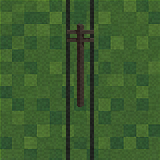
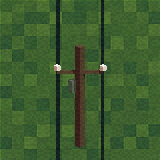
feat(studio): hydro lines redesigned from first principles
Rather than reproducing the old powerline sprites, the hydro tiles are now
inspired-by-but-better, using the pipeline's strengths:

- Crafted wood pole (warm wood palette, kin to doors/rail ties) with the
  studio sun's two-tone shading and ink outline — replacing the original's
  near-black slab. Wide enough (0.17 world ~ 2 art cells) that the wood
  shows between the outlines.
- Single long crossarm spanning the wire gauge, porcelain insulator dots
  on the tips, and a dull-metal transformer can on the pole.
- Wires anchor to the arm: NS keeps plan-view straight wires at the
  arm-tip gauge (±0.56); EW hangs both wires at arm height with catenary
  sag kinking at each pole (the reference's own elevation cheat, with
  physically coherent wire spacing).
- The pole billboard composites 12 art cells low (`overlayOffsetY`), which
  seats its extent at ~22-75% of the tile and lands the crossarm exactly
  at the wire-anchor height for both orientations; a cell-aligned ground
  shadow is stamped under the base, consistent with the studio sun.

`AUTHORING.md` documents the billboard-prop pattern; `power-demo.png`
compares both orientations against the original sprites.

Changed region(s): [[0.3125, 0.0, 0.6875, 1.0]]

diff --git a/studio/scenes/power.py b/studio/scenes/power.py
@@ -1,10 +1,18 @@
-# Scene: powerline ground tiles (wires only). The pole is a separate scene
+# Scene: hydro line ground tiles (wires only). The pole is a separate scene
 # (pole.py) rendered through the DIMETRIC camera and composited onto these
 # tiles by the stylizer — the same top-down-ground / elevation-pole cheat the
-# existing (liked) hand-made powerline sprites use.
+# existing (liked) hand-made hydro sprites use.
+#
+# Measured from those sprites, the two orientations use different cheats:
+# - vertical (ns): plan view — two dead-straight wires at ±0.53 world.
+# - horizontal (ew): elevation view — wires hang above centre (anchored at
+#   the pole's crossarm height) and sag toward the tile edges, kinking at
+#   each pole exactly like the reference.
 #
 # (c) Copyright 2026 Liminal HQ, Scott Morris
 # SPDX-License-Identifier: MIT
+
+import math
 
 from studiolib import box
 
@@ -14,14 +22,28 @@ ROTATION_DEG = 0
 VARIANTS = {'ns': None, 'ew': None}
 VARIANT = 'ns'
 
-WIRE_OFFSET = 0.30
+WIRE_OFFSET = 0.56   # the pole's crossarm-tip gauge — wires attach there
+WIRE_W = 0.09
+SAG = 0.22           # catenary dip at the tile edge (elevation-view wires)
+EW_ANCHORS = (0.79, 0.50)  # wire heights at the pole: crossarm height, with
+                           # the near-side wire drawn slightly lower for depth
 
 
 def build(mats):
-    ns = VARIANT == 'ns'
-    # Two parallel wires, low over the grass (kept near the ground so their
-    # cast shadows stay tight instead of drawing a doubled line).
-    for side in (1, -1):
-        loc = (WIRE_OFFSET * side, 0, 0.06) if ns else (0, WIRE_OFFSET * side, 0.06)
-        scale = (0.09, 4.1, 0.04) if ns else (4.1, 0.09, 0.04)
-        box(mats, 'wire', loc, scale)
+    if VARIANT == 'ns':
+        for side in (1, -1):
+            box(mats, 'wire', (WIRE_OFFSET * side, 0, 0.06), (WIRE_W, 4.1, 0.04))
+    else:
+        # Sagging elevation-view wires: segmented along x, dipping toward the
+        # edges; adjacent tiles continue the curve, kinking at each pole.
+        segments = 16
+        for anchor in EW_ANCHORS:
+            for i in range(segments):
+                x0 = -2.05 + 4.1 * i / segments
+                x1 = -2.05 + 4.1 * (i + 1) / segments
+                y0 = anchor - SAG * (x0 / 2) ** 2
+                y1 = anchor - SAG * (x1 / 2) ** 2
+                cx, cy = (x0 + x1) / 2, (y0 + y1) / 2
+                length = math.hypot(x1 - x0, y1 - y0)
+                box(mats, 'wire', (cx, cy, 0.06), (length + 0.02, WIRE_W, 0.04),
+                    (0, 0, math.atan2(y1 - y0, x1 - x0)))

diff --git a/studio/scenes/pole.py b/studio/scenes/pole.py
@@ -1,6 +1,12 @@
-# Scene: utility pole billboard prop — rendered through the standard DIMETRIC
-# camera (so it stands up, like the pole in the existing hand-made powerline
-# sprites) and composited onto the top-down power wire tiles by the stylizer.
+# Scene: hydro pole billboard prop — rendered through the standard DIMETRIC
+# camera (so it stands up, like the pole in the existing hand-made hydro
+# sprites) and composited onto the top-down wire tiles by the stylizer.
+#
+# Measured against both reference sprites: pole spans ~22-78% of the tile
+# height with a single long crossarm whose bar sits ~31 px above tile centre
+# once the billboard is composited 12 art cells (40 px) low — the same
+# alignment puts the crossarm tips exactly on the vertical tile's wires
+# (±0.53 world) and at the horizontal tile's upper wire height.
 #
 # (c) Copyright 2026 Liminal HQ, Scott Morris
 # SPDX-License-Identifier: MIT
@@ -14,12 +20,17 @@ FOCUS_Z = 0.7
 
 
 def build(mats):
-    # The pole itself — taller than real-world proportion, matching the
-    # exaggerated elevation-view pole of the existing sprites. The overlay is
-    # composited at 1:1 world scale with the wire tile, so the crossarm tips
-    # (±0.30 along the screen-horizontal) land exactly on the wire lines.
-    box(mats, 'tie', (0, 0, 1.1), (0.12, 0.12, 2.2))
-    # Crossarms, oriented perpendicular to the camera azimuth (45°) so they
-    # read as horizontal bars on screen.
-    for z in (2.0, 1.78):
-        box(mats, 'tie', (0, 0, z), (0.68, 0.09, 0.07), (0, 0, math.radians(135)))
+    # The pole: tall (2.7 world -> ~58% of tile height on screen), wide
+    # enough (0.17 ~ 2 art cells) that the wood material shows between its
+    # ink outlines. Wood role — shaded two-tone by the studio sun.
+    box(mats, 'tie', (0, 0, 1.35), (0.17, 0.17, 2.7))
+    # Single long crossarm spanning the wire gauge (tips at ±0.575 screen),
+    # oriented perpendicular to the camera azimuth so it reads horizontal.
+    box(mats, 'tie', (0, 0, 2.0), (1.15, 0.09, 0.08), (0, 0, math.radians(135)))
+    # Porcelain insulators on the arm tips (trim role), where wires attach.
+    for side in (1, -1):
+        tip = 0.575 * side
+        box(mats, 'trim', (tip * -0.707, tip * 0.707, 2.11), (0.12, 0.12, 0.13))
+    # Transformer can hanging right of the pole below the arm (grey).
+    stub = 0.20
+    box(mats, 'step', (stub * 0.707, -stub * 0.707, 1.62), (0.14, 0.14, 0.32))

diff --git a/studio/AUTHORING.md b/studio/AUTHORING.md
@@ -97,6 +97,7 @@ Ground tiles are a second asset class: set `TOP_DOWN = True` in the scene and th
 - Relief still matters: model trackbeds/kerbs as *raised* boxes (0.05–0.2 units) so the fixed sun gives them form; a purely flat plane renders styleless.
 - Connectivity variant sets (the road/rail 15: `ns`, `ew`, 4×`corner-*`, 4×`t-*`, `cross`, 4×`end-*`) come from ONE parametric scene exposing a `VARIANTS` dict and a `VARIANT` module global; the driver renders each as `<scene>-<variant>`. Always build variants as rotated *geometry*, never rotate the finished sprite — sprite rotation would rotate the sun with it and break lighting consistency.
 - Render all variants in one Blender session: `... render-passes.py -- rail all`; stylize each with `bun stylize.mjs rail-<variant>`.
+- **Billboard props** (the hydro pole): tall standing objects on ground tiles are a separate scene rendered through the *dimetric* camera and composited by the stylizer (`SCENE_STYLES[x].overlay`), at 1:1 world scale so attachment points line up with ground geometry (crossarm tips ↔ wire lines). `overlayOffsetY` (in px, snapped to whole art cells) seats the prop vertically; a cell-aligned shadow blob is stamped under it, matching the studio sun.
 
 ## Stylizer knobs (per scene, in `stylize.mjs`)
 
